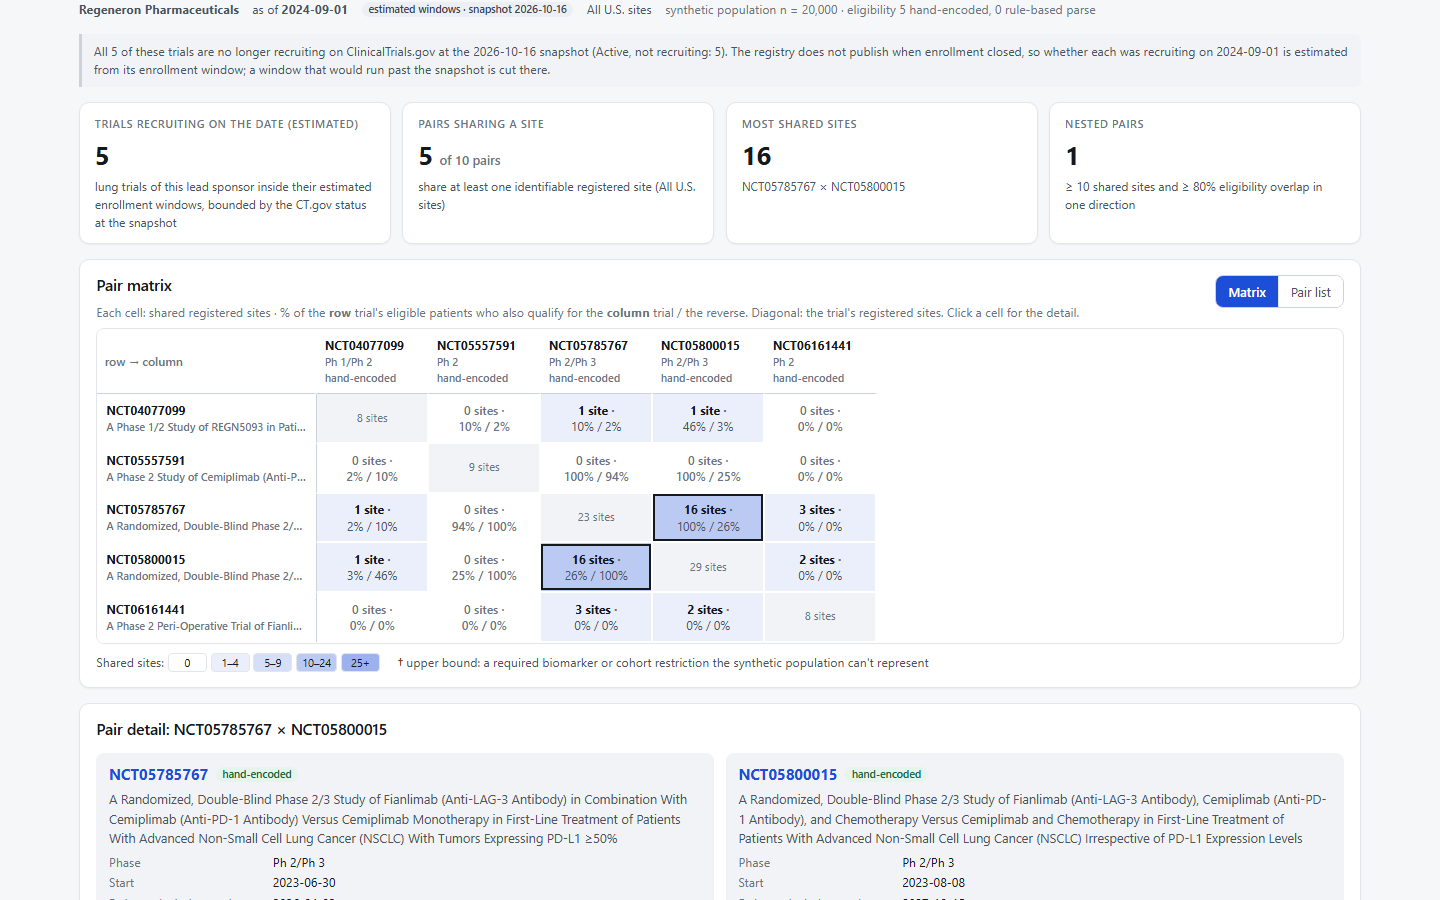
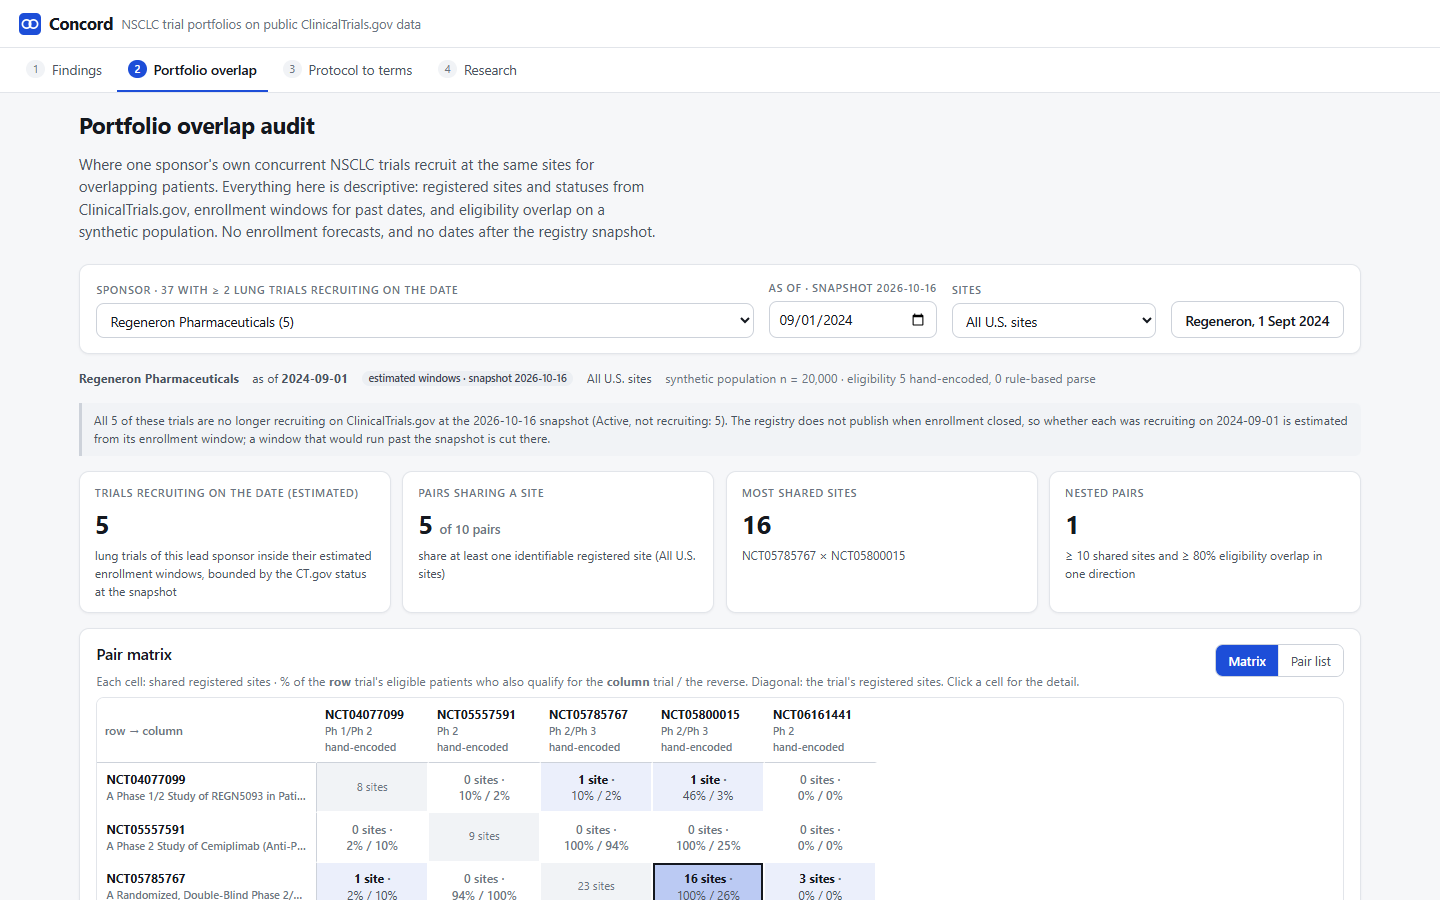
Polish after QA: no projected window-end dates in the overlap view; clear-time hint; old term sheet label

diff --git a/frontend/src/views/OverlapView.tsx b/frontend/src/views/OverlapView.tsx
@@ -837,6 +837,14 @@ function SourceBadge({ t }: { t: OverlapTrial }) {
   )
 }
 
+/** Estimated window ends later than the registry snapshot would be projections, so they are not shown as dates. */
+function WindowEnd({ t, snapshot }: { t: OverlapTrial; snapshot: string }) {
+  if (!t.estimated_window_end) return <span className="muted">none (no completion date registered)</span>
+  if (t.estimated_window_end > snapshot)
+    return <span className="muted" title="Start + 65% of the time to the registered primary completion falls after the snapshot; not shown as a date">after the snapshot</span>
+  return <>{t.estimated_window_end}</>
+}
+
 function StatusNote({ t, snapshot }: { t: OverlapTrial; snapshot: string }) {
   return (
     <>
@@ -874,7 +882,9 @@ function TrialCard({ t, worldwide, snapshot }: { t: OverlapTrial; worldwide: boo
         <dt>Start</dt>
         <dd>{t.start_date}</dd>
         <dt>Estimated window end</dt>
-        <dd>{t.estimated_window_end ?? <span className="muted">none (no completion date registered)</span>}</dd>
+        <dd>
+          <WindowEnd t={t} snapshot={snapshot} />
+        </dd>
         <dt>CT.gov status at {snapshot}</dt>
         <dd>
           <StatusNote t={t} snapshot={snapshot} />
@@ -1202,7 +1212,7 @@ function TrialRow({
           {phaseLabel(t.phases)} · started {t.start_date}
         </div>
         <div>
-          Estimated window end {t.estimated_window_end ?? <span className="muted">none (no completion date registered)</span>}
+          Estimated window end <WindowEnd t={t} snapshot={snapshot} />
         </div>
         <div>
           CT.gov status at {snapshot}: <StatusNote t={t} snapshot={snapshot} />

diff --git a/docs/qa/browser-qa/lib.js b/docs/qa/browser-qa/lib.js
@@ -45,8 +45,8 @@ function instrument(page, log) {
 }
 
 // Pre-pivot tab labels that now name a Research sub-tab.
-const TAB_ALIASES = { 'Pre-cleared terms': 'Term sheet', Portfolio: 'Portfolio clearing' }
-const RESEARCH_SUBTABS = ['Clear it', 'Robustness', 'Map', 'Portfolio clearing', 'Price tags', 'Term sheet', 'Model & data']
+const TAB_ALIASES = { 'Pre-cleared terms': 'Term sheet (old)', 'Term sheet': 'Term sheet (old)', Portfolio: 'Portfolio clearing' }
+const RESEARCH_SUBTABS = ['Clear it', 'Robustness', 'Map', 'Portfolio clearing', 'Price tags', 'Term sheet (old)', 'Model & data']
 
 /** Click a top-level tab (Findings, Portfolio overlap, Protocol to terms, Research) or a Research sub-tab by
  *  its label; a sub-tab opens Research first. Old labels from the 7-tab app map through TAB_ALIASES. */

diff --git a/frontend/src/views/ClearView.tsx b/frontend/src/views/ClearView.tsx
@@ -329,7 +329,7 @@ export default function ClearView({ clear, regions, form, setForm, onOpenTrial }
           <button className="btn btn-primary btn-big" onClick={() => clear.run(form)} disabled={clear.loading}>
             {clear.loading ? 'Clearing…' : 'Clear the market'}
           </button>
-          <span className="muted small">Clears take about 15–25 s{form.region === 'US' ? ' (US-wide: about 25 s or more)' : ''}.</span>
+          <span className="muted small">Clears take about 1–2 minutes{form.region === 'US' ? ' (US-wide: longer)' : ''}.</span>
         </div>
         <details className="assumptions" open={modified || undefined}>
           <summary>Assumptions {modified && <Badge tone="info">modified</Badge>}</summary>

diff --git a/docs/qa/browser-qa/qa1018_interact.js b/docs/qa/browser-qa/qa1018_interact.js
@@ -80,7 +80,7 @@ const wait = (page, fn, arg, timeout = 90000) => page.waitForFunction(fn, { time
   await page.goto(`${BASE}/#research/clear`, { waitUntil: 'domcontentloaded' })
   await Q.waitCleared(page)
   const subs = {}
-  for (const label of ['Robustness', 'Map', 'Portfolio clearing', 'Price tags', 'Term sheet', 'Model & data', 'Clear it']) {
+  for (const label of ['Robustness', 'Map', 'Portfolio clearing', 'Price tags', 'Term sheet (old)', 'Model & data', 'Clear it']) {
     await Q.clickTab(page, label)
     await Q.sleep(1500)
     try {

diff --git a/frontend/src/routes.ts b/frontend/src/routes.ts
@@ -7,7 +7,7 @@ export const RESEARCH_TABS = [
   { id: 'map', label: 'Map' },
   { id: 'portfolio', label: 'Portfolio clearing' },
   { id: 'prices', label: 'Price tags' },
-  { id: 'terms', label: 'Term sheet' },
+  { id: 'terms', label: 'Term sheet (old)' },
   { id: 'model', label: 'Model & data' },
 ] as const
 export type ResearchTabId = (typeof RESEARCH_TABS)[number]['id']

diff --git a/docs/decisions.md b/docs/decisions.md
@@ -58,3 +58,10 @@ Judgment calls made without being able to ask. Newest last. Each says what and w
 15. **Robustness grids regenerated** (US-Northeast, Regeneron) with the deterministic solver at beta 0.093 and its
     CI bounds (0, 0.297) plus the assumed 1.0. They are in-sample model outputs and appear only under Research.
     Pure coordination with no losers stays at 1.00-1.04x for every data-supported beta in US-Northeast.
+16. **Overlap view no longer shows estimated window ends after the registry snapshot.** QA found dates such as
+    2027-10-15 (start + 65% of the time to the registered primary completion) next to the view's own "no dates
+    after the registry snapshot" note. They are projections, so they now read "after the snapshot". Past
+    durations ("months both recruiting") stay, bounded by the snapshot.
+17. **Polish only after QA**: Clear it hint now says clears take 1-2 minutes (measured 96 s); the old research
+    term sheet tab is labelled "Term sheet (old)"; QA harness labels updated to match. The terms budget table
+    still needs a sideways swipe at 390 px; fixing it would be a restyle, so it is left and noted.
